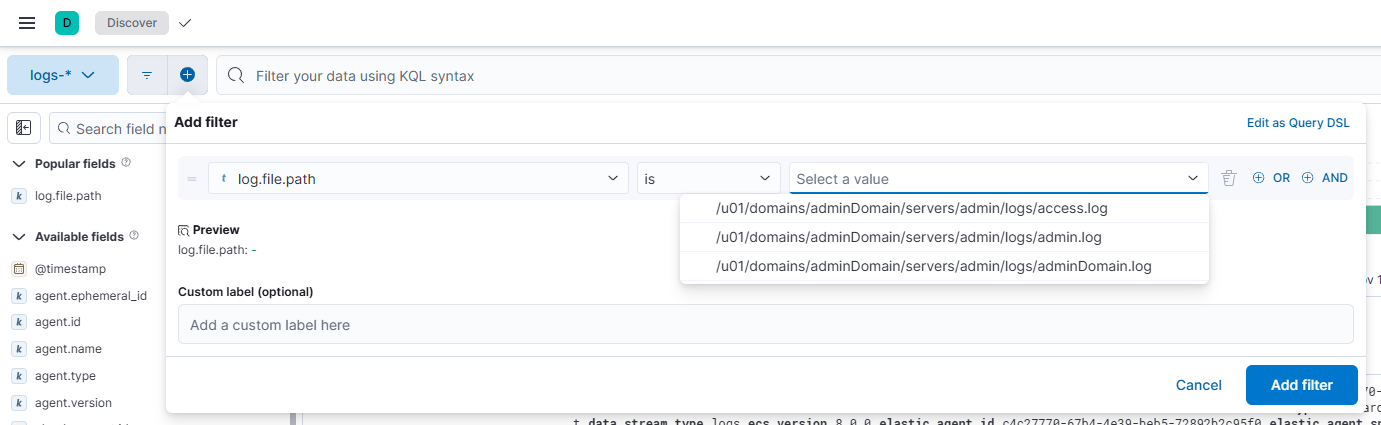
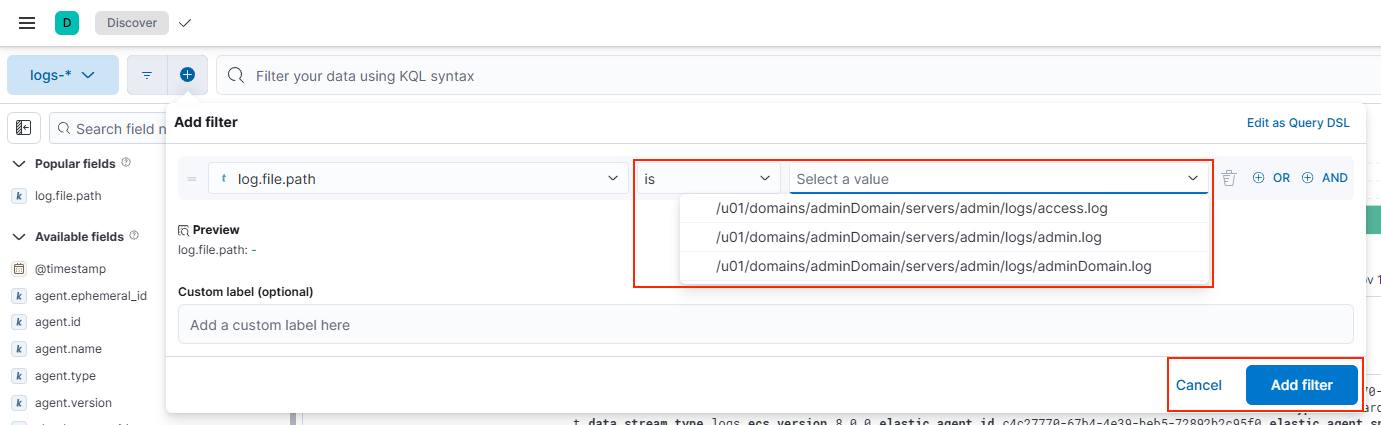
On branch wls-elk-guide Copyedits for clarity. Crop and annotate bitmaps. modified:   articles/java/migration/media/migrate-weblogic-with-elk/elastic-add-filter.png modified:   articles/java/migration/media/migrate-weblogic-with-elk/elastic-discover-menu.png modified:   articles/java/migration/media

diff --git a/articles/java/migration/migrate-weblogic-with-elk.md b/articles/java/migration/migrate-weblogic-with-elk.md
@@ -145,7 +145,10 @@ This section guides you through setting up custom log integration for WebLogic S
       :::image type="content" source="media/migrate-weblogic-with-elk/elastic-weblogic-domain-log.png" alt-text="WebLogic domain log in Kibana." lightbox="media/migrate-weblogic-with-elk/elastic-weblogic-domain-log.png":::
 
 5. **Add Integrations for Server Logs and HTTP Access Logs:**
-   - Use the same approach to import server logs and HTTP access logs with the following configurations:
+   - In Kibana, search **Integrations** and select it. 
+   - Select **Installed integrations** -> **Custom Logs** -> **Add Custom Logs**.
+   - Enter the appropriate configurations as listed below for each log type (Server, and HTTP access logs).
+   - After filling out all configuration fields, select **Save and deploy changes** to finalize.
 
       **Server Log**
 
@@ -167,10 +170,6 @@ This section guides you through setting up custom log integration for WebLogic S
       - **Custom log file → Advanced options → Custom configurations:** *(No configuration provided)*
       - **Where to add this integration? → Existing hosts:** My first agent policy
 
-   - In Kibana, search **Integrations** then go to it. 
-   - Select **Installed integrations** -> **Custom Logs** -> **Add Custom Logs**.
-   - Enter the appropriate configurations listed in the table above for each log type (Server, and HTTP access logs).
-   - After filling out all configuration fields, select **Save and deploy changes** to finalize.
 
 ## Searching WLS Logs in Kibana
 
